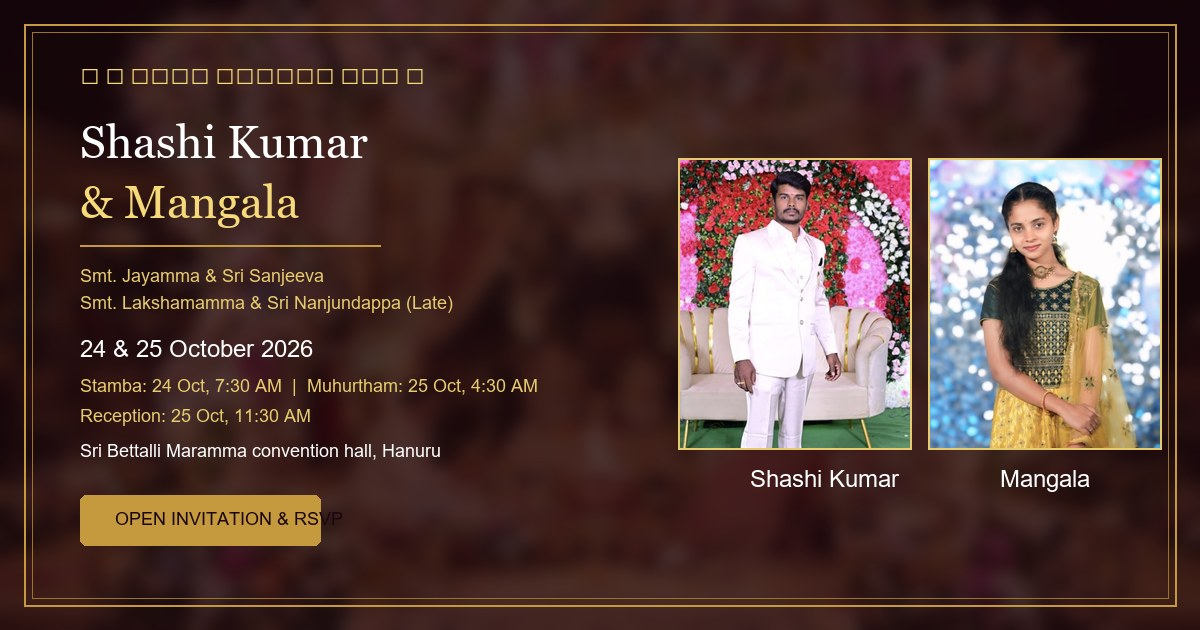
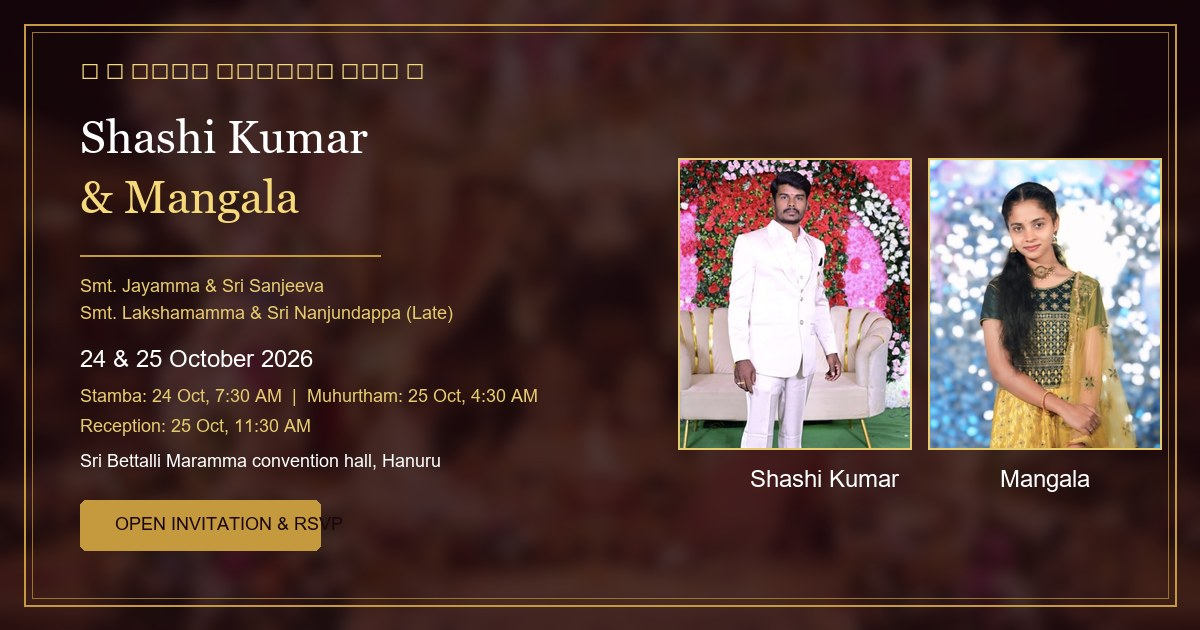
Fix descender clipping for the letter g in Mangala across all headings and cards

diff --git a/src/components/HeroSection.tsx b/src/components/HeroSection.tsx
@@ -158,10 +158,10 @@ export const HeroSection: React.FC = () => {
               className="pointer-events-none absolute -top-16 left-1/2 w-28 -translate-x-1/2 opacity-60 sm:-top-20 sm:w-36"
             />
             <p className="invite-line eyebrow mt-6">{weddingData.dateShort}</p>
-            <h1 className="invite-line mt-6 flex flex-wrap items-center justify-center gap-x-2 gap-y-1 font-display text-2xl min-[360px]:text-3xl min-[480px]:text-5xl sm:text-6xl md:text-7xl leading-[1.08] break-words">
-              <span className="text-gold-foil animate-foil">{weddingData.groom}</span>
+            <h1 className="invite-line mt-6 flex flex-wrap items-center justify-center gap-x-2 gap-y-1 font-display text-2xl min-[360px]:text-3xl min-[480px]:text-5xl sm:text-6xl md:text-7xl leading-[1.28] pb-2 overflow-visible break-words">
+              <span className="text-gold-foil animate-foil pb-1">{weddingData.groom}</span>
               <span className="mx-1.5 font-title text-base sm:text-2xl md:text-3xl align-middle text-maroon">&amp;</span>
-              <span className="text-gold-foil animate-foil">{weddingData.bride}</span>
+              <span className="text-gold-foil animate-foil pb-1">{weddingData.bride}</span>
             </h1>
             <div className="invite-line rule-gold mx-auto mt-8 w-2/3" />
             <p className="invite-line mx-auto mt-6 max-w-sm text-sm leading-relaxed text-muted-foreground">

diff --git a/src/components/GratitudeSection.tsx b/src/components/GratitudeSection.tsx
@@ -41,10 +41,10 @@ export const GratitudeSection: React.FC = () => {
               className="mx-auto w-20 sm:w-24"
             />
             <p className="eyebrow mt-7">With gratitude from both families</p>
-            <h2 className="mt-6 flex flex-wrap items-center justify-center gap-x-2 gap-y-1 font-display text-2xl min-[360px]:text-3xl min-[480px]:text-5xl sm:text-7xl leading-[1.08] break-words">
-              <span className="text-gold-foil animate-foil">{weddingData.groom}</span>
+            <h2 className="mt-6 flex flex-wrap items-center justify-center gap-x-2 gap-y-1 font-display text-2xl min-[360px]:text-3xl min-[480px]:text-5xl sm:text-7xl leading-[1.28] pb-2 overflow-visible break-words">
+              <span className="text-gold-foil animate-foil pb-1">{weddingData.groom}</span>
               <span className="mx-1.5 align-middle font-title text-lg sm:text-3xl text-maroon">&amp;</span>
-              <span className="text-gold-foil animate-foil">{weddingData.bride}</span>
+              <span className="text-gold-foil animate-foil pb-1">{weddingData.bride}</span>
             </h2>
             <p className="mt-7 font-title text-sm uppercase tracking-[0.32em] text-maroon sm:text-base">
               Thank you for blessing us

diff --git a/src/components/MeetCoupleSection.tsx b/src/components/MeetCoupleSection.tsx
@@ -23,8 +23,8 @@ const PersonCard: React.FC<PersonCardProps> = ({ name, role, note, src, alt, del
         </div>
         <figcaption>
           <p className="mt-7 font-title text-[0.68rem] uppercase tracking-[0.3em] text-gold-deep">{role}</p>
-          <h3 className="mt-3 font-display text-2xl min-[360px]:text-3xl sm:text-4xl break-words px-2">{name}</h3>
-          <div className="rule-gold mx-auto mt-5 w-20" />
+          <h3 className="mt-3 font-display text-2xl min-[360px]:text-3xl sm:text-4xl leading-normal pb-2 overflow-visible break-words px-2">{name}</h3>
+          <div className="rule-gold mx-auto mt-4 w-20" />
           <p className="mx-auto mt-5 max-w-xs text-sm leading-relaxed text-muted-foreground">{note}</p>
         </figcaption>
       </figure>

diff --git a/src/components/Footer.tsx b/src/components/Footer.tsx
@@ -7,7 +7,7 @@ export const Footer: React.FC = () => {
 
   return (
     <footer className="border-t border-gold/30 px-5 py-16 text-center">
-      <p className="flex flex-wrap items-center justify-center gap-x-2 font-display text-2xl min-[360px]:text-3xl sm:text-4xl text-gold-foil animate-foil break-words">
+      <p className="flex flex-wrap items-center justify-center gap-x-2 font-display text-2xl min-[360px]:text-3xl sm:text-4xl text-gold-foil animate-foil leading-normal pb-2 overflow-visible break-words">
         <span>{weddingData.groom}</span>
         <span className="font-title text-base sm:text-2xl text-maroon">&amp;</span>
         <span>{weddingData.bride}</span>

diff --git a/src/index.css b/src/index.css
@@ -67,6 +67,13 @@
   color: transparent;
   -webkit-background-clip: text;
   background-clip: text;
+  display: inline-block;
+  padding-bottom: 0.28em;
+  margin-bottom: -0.28em;
+  padding-top: 0.05em;
+  box-decoration-break: clone;
+  -webkit-box-decoration-break: clone;
+  overflow: visible;
 }
 
 .animate-foil {
